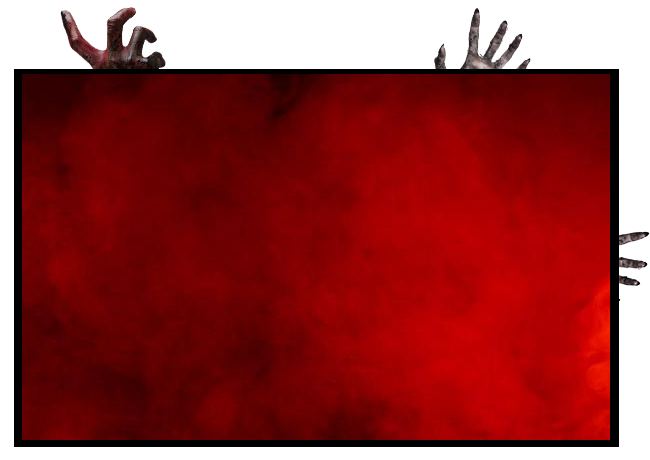
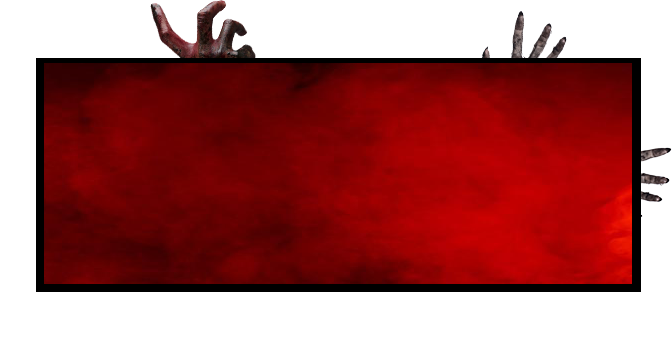
Add files via upload

diff --git a/index.css b/index.css
@@ -259,7 +259,11 @@ height: 30%;
 
     text-align: center;
 
-    background: rgba(184, 17, 17, 1);
+    background-image: url("red.jpg");
+    background-repeat: no-repeat;
+    background-position: center;
+    background-size: cover;
+
     color: rgb(255, 255, 255);
     font-weight: 700;
     font-size: 17px;
@@ -267,7 +271,7 @@ height: 30%;
     box-sizing: border-box;
 
     border: 1px solid rgba(0, 0, 0, 0.541);
-    border-radius: 10px;
+    border-radius: 4px;
 
     box-shadow: 0px 0px 6px 3px rgba(124, 7, 7, 0.712);
 
@@ -331,9 +335,22 @@ a :visited { color: black; }
 }
 
 .zombiesBut{
+    height: 50%;
+    width: 8%;
     margin-left: 5%;
+
+    text-align: center;
     color: rgb(216, 216, 216);
     font-size: 25px;
+
+    background-image: url("zombieBut.png");
+    background-repeat: no-repeat;
+    background-position: center;
+    background-size: 100% auto;
+
+    display: flex;
+    justify-content: center;
+    align-items: center;
 }
 
 
